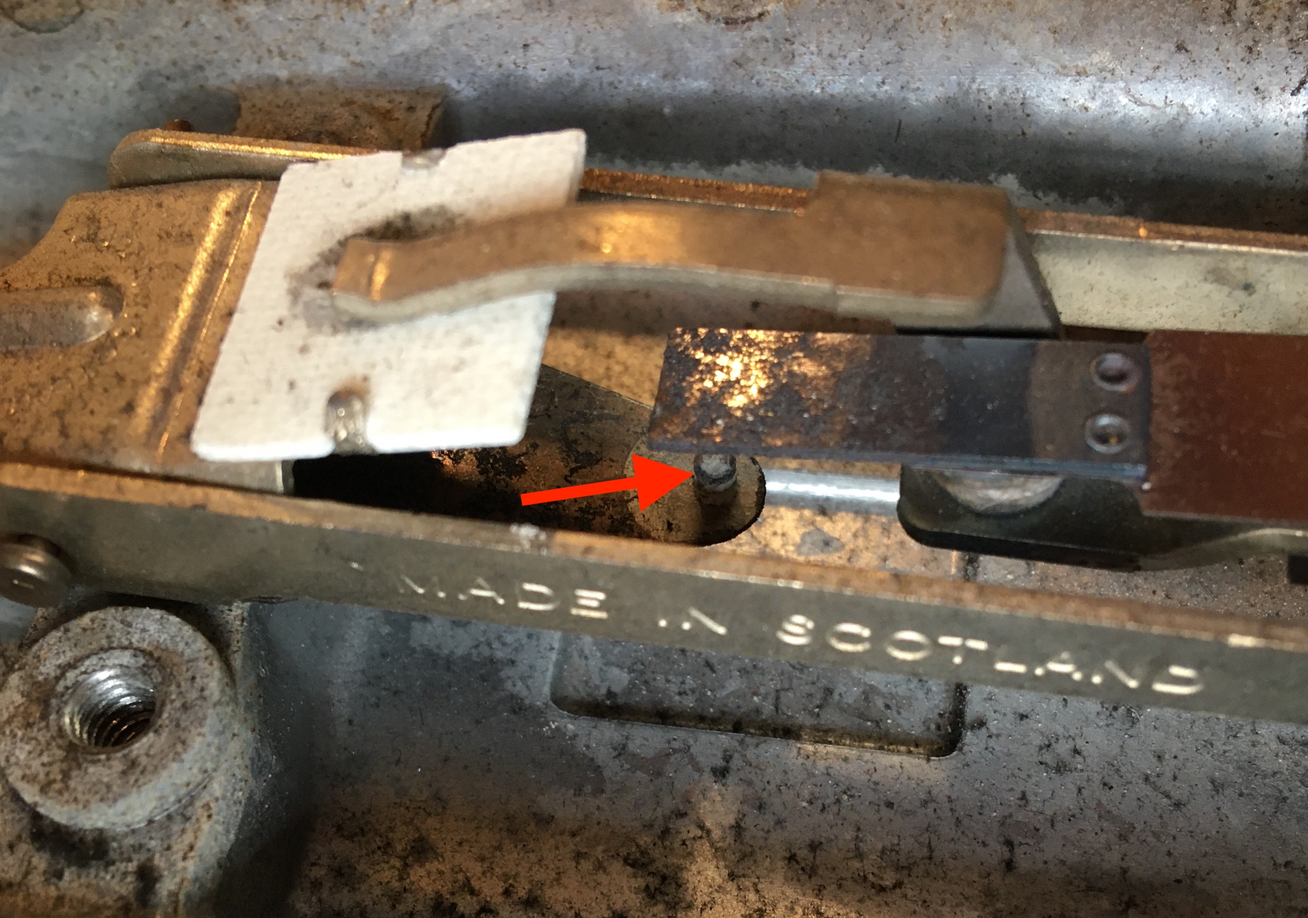
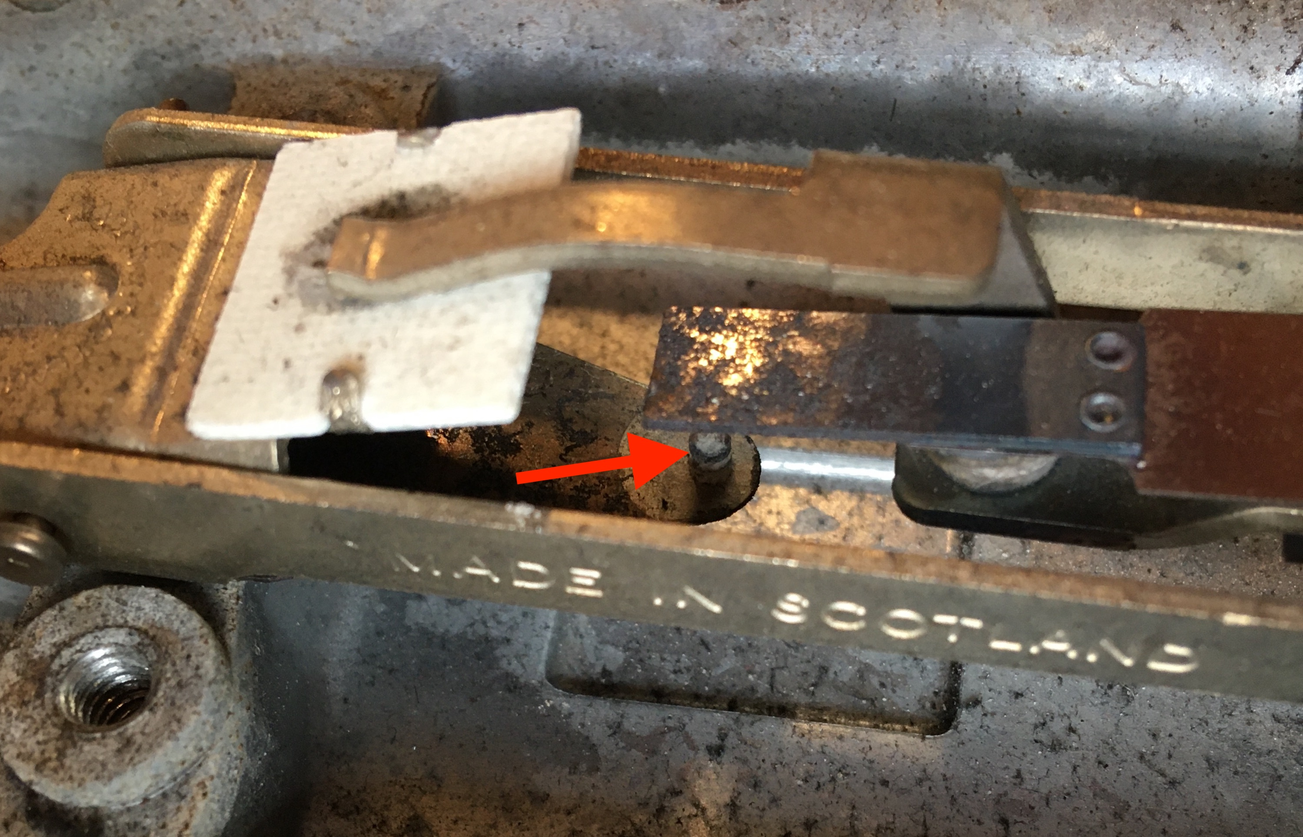
added 2 iron

diff --git a/iron.html b/iron.html
@@ -19,7 +19,7 @@
 <hr>
 <section>
 	<h3>Introduction</h3>
-	<p>&emsp;&emsp;The Model A-13 Sunbeam Dry Iron was yet another device my grandma sent over to me for repair. Having seen the last device she sent over, her desk lamp, broken further rather than repaired, she was prepared to part with the iron when she gave it to me. My grandma had been using the iron since the 1970s and preferred how manageable it felt in her hand unlike the larger contemporary steam irons. However, recently she had noticed that the temperature control switch wasn't working correctly. The iron was always running hot even when the temperature adjustment knob was set to 'off'. This made it difficult to iron linens as one had to be careful not to burn the fabric. Unlike the lamp, this story is one of great success with the iron returned to full working condition.</p> 
+	<p>&emsp;&emsp;The Model A-13 Sunbeam Dry Iron was yet another device my grandma sent over to me for repair. Having seen the last device she sent over, her desk lamp, broken further rather than repaired, she was prepared to part with the iron when she gave it to me. My grandma had been using the iron since the 1970s and preferred how manageable it felt in her hand unlike the larger contemporary steam irons. However, recently she had noticed that the temperature control switch wasn't working correctly. The iron was always running hot even when the temperature adjustment knob was set to "off". This made it difficult to iron linens as one had to be careful not to burn the fabric. Unlike the lamp, this story is one of great success with the iron returned to full working condition.</p> 
 	<img src="images/teardowns/iron/original.jpg" alt="Small Blue Box Labeled 'Netgear Gigabit Switch ProSAFE GS105'" class="center">
 	<p class="label">Original Iron</p>
 	<img src="images/teardowns/iron/exploded.jpg" alt="Small Blue Box Labeled 'Netgear Gigabit Switch ProSAFE GS105'" class="center">
@@ -32,17 +32,30 @@
 <section>
 	<h3>Repairing the Thermostatic Switch</h3>
 	<p>&emsp;&emsp;Since the iron's issue was one of temperature control, I examined the thermostat of the iron in great detail to find out what was wrong. When I initially looked at the temperature adjustment knob from the outside, I assumed the thermostat was as simple as just a potentiometer that acted as a variable resistor controlling the current supplied to the resisitve heating element. However, with the patent dated at 1962, this device was produced before the age of modern microelectronics. In fact, about the only electronic components are wires. The thermostat is nearly completely mechanical. The mechanism has many moving parts, but with some study can be understood and its beauty appreciated.</p>
-	<p>&emsp;&emsp;The mechanism begins with a cam, secured to the temperature control knob handle. As the temperature control knob handle is rotated by the user, the cam rotates internally. The cam is made of a circular piece of metal with a sloped ramp along its rim. Resting on this ramp is the head of the cam follower shaft. Rotating the cam causes the cam follower head to slide up or down on the ramp. As a result, the cam follower is pushed down or allowed to rise. When the temperature control knob is initially on the 'off' setting, the cam follower head rests at the bottom of the cam ramp and the cam follower is as high as possible. When the temperature control knob is turned, the cam follower head moves up the cam ramp and the cam follower is lowered.</p>
+	<p>&emsp;&emsp;The mechanism begins with a cam, secured to the temperature control knob handle. As the temperature control knob handle is rotated by the user, the cam rotates internally. The cam is made of a circular piece of metal with a sloped ramp along its rim. Resting on this ramp is the head of the cam follower shaft. Rotating the cam causes the cam follower head to slide up or down on the ramp. As a result, the cam follower is pushed down or allowed to rise. When the temperature control knob is initially on the "off" setting, the cam follower head rests at the bottom of the cam ramp and the cam follower is as high as possible. When the temperature control knob is turned, the cam follower head moves up the cam ramp and the cam follower is lowered.</p>
 	<img src="images/teardowns/iron/cam.jpg" alt="Small Blue Box Labeled 'Netgear Gigabit Switch ProSAFE GS105'" class="center">
 	<p class="label">Cam</p>
-	<img src="images/teardowns/iron/heatMechanism.jpg" alt="Small Blue Box Labeled 'Netgear Gigabit Switch ProSAFE GS105'" class="center">
+	<p>&emsp;&emsp;The cam follower connects to a lever on the thermostatic switch contained on the sole plate of the iron. As the temperature setting is turned up the cam follower presses down on the lever, lifting up an electrical contact on the other side and pressing it into another electrical contact. With the circuit connected, current begins flowing through the resistive heating element and the iron begins to heat. As the iron heats though, the bimetal plate holding the upper electrical contact deflects upwards breaking the electrical contact and thereby preventing continuous heating. As the bimetal plate cools it returns to its original position, once again making electrical contact and heating the iron. Through this process of connecting and breaking the circuit, the temperature of the iron is approximately maintained at a certain level, hence the name thermostatic switch. When the cam follower presses down further on the lever, the lower electrical contact is lifted higher reducing the range over which the upper electrical contact has to deflect away from it. Consequently, the circuit remains connected longer, allowing more current to flow through the resistive heating element and the iron to get hotter.</p>
+	<p>&emsp;&emsp;The cam follower was intelligently designed as two separate shafts, with one threaded into the other. With this design, the thermostat setting could be adjusted by changing the length of the cam follower. Too well buried to be easily accessed by the everyday user, this adjustment was likely reserved for technicians at appliance servicing stores.</p>
+	<p>&emsp;&emsp;The thermal contacts are not easily visible on the thermostatic switch as they are hidden away on the bottom of the mechanism. Nonetheless, with the aid of the annotated cross-sectional drawings of the iron in the patent, I was able to identify the thermostatic switch components and their function. Below is an image of the thermostatic switch as well as a video demonstrating the impact translation of the cam follower has on the mechanism. As the arm resting on the white insulated plate is lifted, it carries with it the lower electrical contact.</p>
+	<img src="images/teardowns/iron/heatMechanism.jpg" alt="Small Blue Box Labeled 'Netgear Gigabit Switch ProSAFE GS105'" class="doubleRowImageWide">
+	<video controls="controls" name="Firing Mechanism - Slow Motion" src="images/teardowns/iron/heatMechanismAction.mp4" class="doubleRowImageWide"></video>
 	<p class="label">Thermostatic Switch</p>
-	<video controls="controls" name="Firing Mechanism - Slow Motion" src="images/teardowns/iron/heatMechanismAction.mp4" class="center"></video>
-	<p class="label">Thermostatic Switch Demonstration</p>
-	<img src="images/teardowns/iron/pin.jpg" alt="Small Blue Box Labeled 'Netgear Gigabit Switch ProSAFE GS105'" class="center">
-	<p class="label">Pin</p>
-	<img src="images/teardowns/iron/pinCap.jpg" alt="Small Blue Box Labeled 'Netgear Gigabit Switch ProSAFE GS105'" class="center">
-	<p class="label">Pin Cap</p>
+	<p>&emsp;&emsp;When the lower electrical contact is not being lifted up, the upper electrical contact rests on a small insulated pin-cap instead of the lower electrical contact. This ensures that the circuit is open until the temperature knob is rotated from the "off" setting. However, the insulated pin-cap had fallen off in my grandma's iron and instead the upper electrical contact rested on the metal pin where the insulated pin-cap should have been mounted. This metal-on-metal contact connected the circuit, causing the iron to heat up even when set to the "off" setting. The "fix" was as simple as just remounting the pin-cap on top of the pin. Below are pictures of the pin and pin-cap indicated using red arrows. It is interesting to note that the metal components of the thermostatic switch were made in Scotland. Seeing the words "Made In" on any manufactured product immediately makes me think "Made In China", but that was not always the case.</p>
+	<div class="doubleRowImageWide">
+		<img src="images/teardowns/iron/pin.jpg" alt="Small Blue Box Labeled 'Netgear Gigabit Switch ProSAFE GS105'">
+		<p class="label">Metal Pin</p>
+	</div>
+	<div class="doubleRowImageWide">
+		<img src="images/teardowns/iron/pinCap.jpg" alt="Small Blue Box Labeled 'Netgear Gigabit Switch ProSAFE GS105'">
+		<p class="label">Insulated Pin-Cap</p>
+	</div>
+</section>
+<hr>
+<section>
+	<h3>Fasteners</h3>
+	<p>&emsp;&emsp;The fasteners used to secure the components of the iron were unlike those I had seen before. Of particular interest was a small spring washer used under the bolt securing the temperature control knob handle and cam. Given its warped appearance, the spring washer could have mistaken for a damaged flat washer. However, the warp in the washer is intentional as it allows energy to be stored when the washer is flattened under a bolt. The energy stored in the washer maintains the bolt in tension with the engaging threads of a nut or other threaded hole. This reduces the impact vibrations can have in loosening a bolt, an important consideration for the temperature control knob which will experience a significant amount of movement.</p>
+	<p>&emsp;&emsp;Many of the bolts had flat hexagonal heads, required a nut driver to remove them. Although all the bolts are likely of similar ages, they have corroded at different levels based on their material and location in the assembly. Additionally, all of the bolts except for one appeared to have a triangular portion cut out of their tips. Searching around the internet, I could not find an explanation. Given that nearly all the bolts appear to have a similar feature, I would infer that the feature is not a result of natural damage but rather some consequence of a specific manufacturing method.</p>
 	<img src="images/teardowns/iron/bolts.jpg" alt="Small Blue Box Labeled 'Netgear Gigabit Switch ProSAFE GS105'" class="center">
 	<p class="label">Bolts</p>
 </section>
